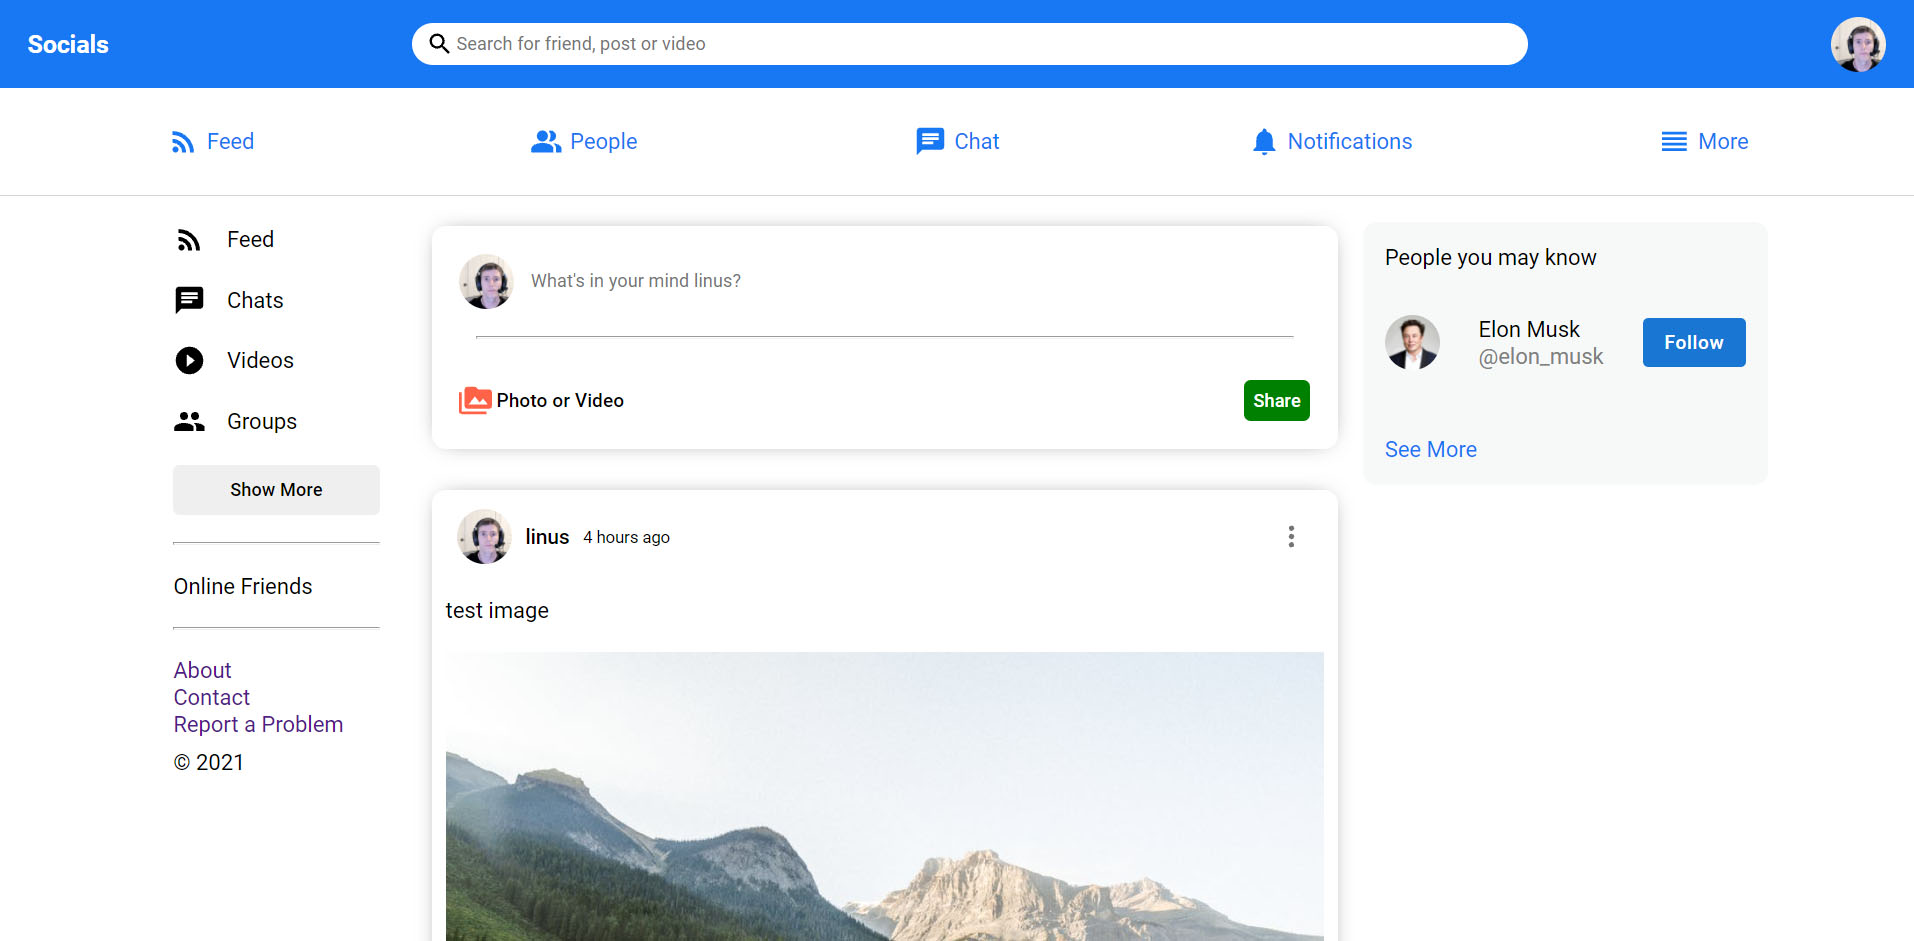
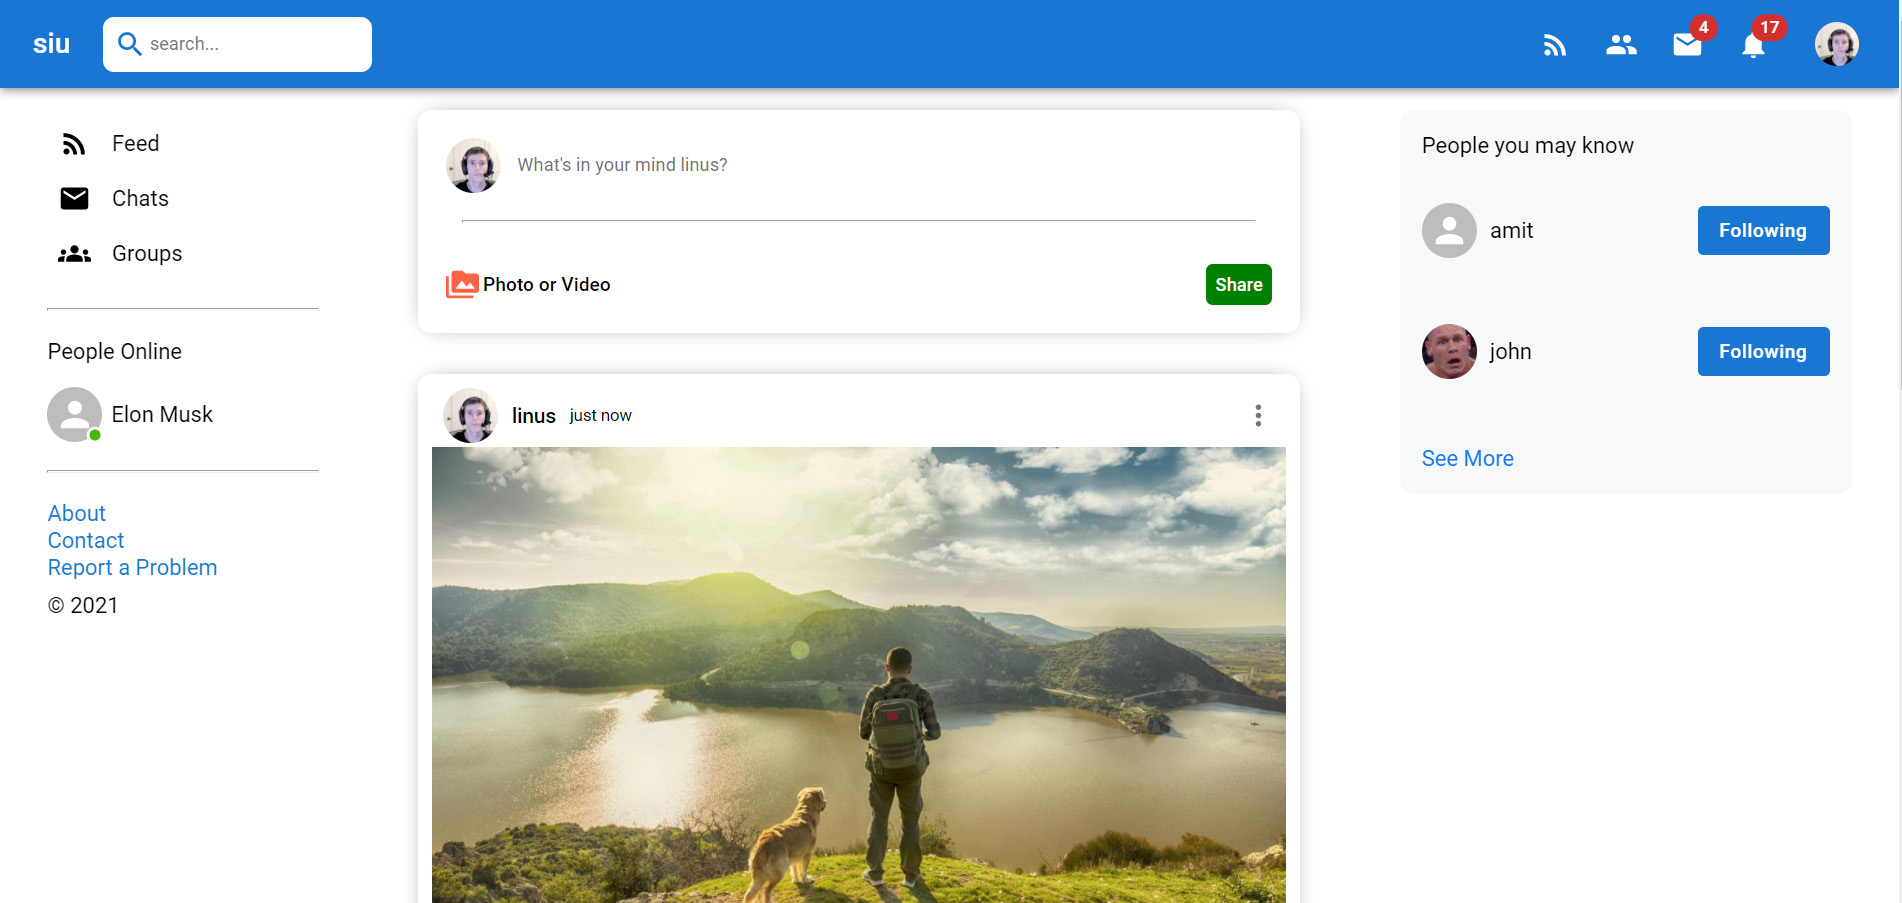
improved ui

diff --git a/src/components/rightbar/rightbar.css b/src/components/rightbar/rightbar.css
@@ -1,5 +1,5 @@
 .rightbar {
-  width: 22rem;
+  width: 25rem;
   height: calc(100vh - 50px);
   position: sticky;
   top: 5rem;

diff --git a/src/components/feed/feed.css b/src/components/feed/feed.css
@@ -5,8 +5,7 @@
 }
 
 .feedWrapper {
-  padding: 2px;
-  width: 80%;
+  width: 85%;
 }
 
 .feed__msg {
